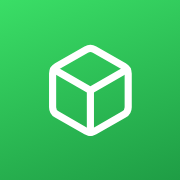
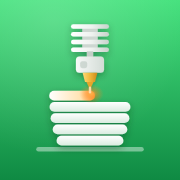
Nuevo ícono de la app: boquilla imprimiendo una pieza por capas
- icon.svg (fuente) y PNG de 180, 192 y 512 px
- Referencias con ?v=2 para que iOS y el manifiesto tomen el ícono nuevo

Claude-Session: https://claude.ai/code/session_015mxKiu8tbzypRVHgHtPzVw

diff --git a/cotizador.html b/cotizador.html
@@ -587,7 +587,7 @@
   <meta name="theme-color" content="#f2f2f7" media="(prefers-color-scheme: light)" />
   <meta name="apple-mobile-web-app-capable" content="yes" />
   <link rel="manifest" href="manifest.json" />
-  <link rel="apple-touch-icon" href="icon-180.png" />
+  <link rel="apple-touch-icon" href="icon-180.png?v=2" />
   <meta name="mobile-web-app-capable" content="yes" />
   <meta name="apple-mobile-web-app-title" content="MiniPrints" />
   <meta name="apple-mobile-web-app-status-bar-style" content="black-translucent" />

diff --git a/cotizaciones.html b/cotizaciones.html
@@ -16,7 +16,7 @@
   <meta name="theme-color" content="#f2f2f7" media="(prefers-color-scheme: light)" />
   <meta name="apple-mobile-web-app-capable" content="yes" />
   <link rel="manifest" href="manifest.json" />
-  <link rel="apple-touch-icon" href="icon-180.png" />
+  <link rel="apple-touch-icon" href="icon-180.png?v=2" />
   <meta name="mobile-web-app-capable" content="yes" />
   <meta name="apple-mobile-web-app-title" content="MiniPrints" />
   <meta name="apple-mobile-web-app-status-bar-style" content="black-translucent" />

diff --git a/dashboard.html b/dashboard.html
@@ -16,7 +16,7 @@
   <meta name="theme-color" content="#f2f2f7" media="(prefers-color-scheme: light)" />
   <meta name="apple-mobile-web-app-capable" content="yes" />
   <link rel="manifest" href="manifest.json" />
-  <link rel="apple-touch-icon" href="icon-180.png" />
+  <link rel="apple-touch-icon" href="icon-180.png?v=2" />
   <meta name="mobile-web-app-capable" content="yes" />
   <meta name="apple-mobile-web-app-title" content="MiniPrints" />
   <meta name="apple-mobile-web-app-status-bar-style" content="black-translucent" />

diff --git a/finanzas.html b/finanzas.html
@@ -15,7 +15,7 @@
   <meta name="theme-color" content="#f2f2f7" media="(prefers-color-scheme: light)" />
   <meta name="apple-mobile-web-app-capable" content="yes" />
   <link rel="manifest" href="manifest.json" />
-  <link rel="apple-touch-icon" href="icon-180.png" />
+  <link rel="apple-touch-icon" href="icon-180.png?v=2" />
   <meta name="mobile-web-app-capable" content="yes" />
   <meta name="apple-mobile-web-app-title" content="MiniPrints" />
   <meta name="apple-mobile-web-app-status-bar-style" content="black-translucent" />

diff --git a/historial-ventas.html b/historial-ventas.html
@@ -17,7 +17,7 @@
   <meta name="theme-color" content="#f2f2f7" media="(prefers-color-scheme: light)" />
   <meta name="apple-mobile-web-app-capable" content="yes" />
   <link rel="manifest" href="manifest.json" />
-  <link rel="apple-touch-icon" href="icon-180.png" />
+  <link rel="apple-touch-icon" href="icon-180.png?v=2" />
   <meta name="mobile-web-app-capable" content="yes" />
   <meta name="apple-mobile-web-app-title" content="MiniPrints" />
   <meta name="apple-mobile-web-app-status-bar-style" content="black-translucent" />

diff --git a/reset.html b/reset.html
@@ -16,7 +16,7 @@
   <meta name="theme-color" content="#f2f2f7" media="(prefers-color-scheme: light)" />
   <meta name="apple-mobile-web-app-capable" content="yes" />
   <link rel="manifest" href="manifest.json" />
-  <link rel="apple-touch-icon" href="icon-180.png" />
+  <link rel="apple-touch-icon" href="icon-180.png?v=2" />
   <meta name="mobile-web-app-capable" content="yes" />
   <meta name="apple-mobile-web-app-title" content="MiniPrints" />
   <meta name="apple-mobile-web-app-status-bar-style" content="black-translucent" />

diff --git a/stock-material.html b/stock-material.html
@@ -16,7 +16,7 @@
   <meta name="theme-color" content="#f2f2f7" media="(prefers-color-scheme: light)" />
   <meta name="apple-mobile-web-app-capable" content="yes" />
   <link rel="manifest" href="manifest.json" />
-  <link rel="apple-touch-icon" href="icon-180.png" />
+  <link rel="apple-touch-icon" href="icon-180.png?v=2" />
   <meta name="mobile-web-app-capable" content="yes" />
   <meta name="apple-mobile-web-app-title" content="MiniPrints" />
   <meta name="apple-mobile-web-app-status-bar-style" content="black-translucent" />

diff --git a/stock-piezas.html b/stock-piezas.html
@@ -17,7 +17,7 @@
   <meta name="theme-color" content="#f2f2f7" media="(prefers-color-scheme: light)" />
   <meta name="apple-mobile-web-app-capable" content="yes" />
   <link rel="manifest" href="manifest.json" />
-  <link rel="apple-touch-icon" href="icon-180.png" />
+  <link rel="apple-touch-icon" href="icon-180.png?v=2" />
   <meta name="mobile-web-app-capable" content="yes" />
   <meta name="apple-mobile-web-app-title" content="MiniPrints" />
   <meta name="apple-mobile-web-app-status-bar-style" content="black-translucent" />

diff --git a/ventas.html b/ventas.html
@@ -91,7 +91,7 @@
   <meta name="theme-color" content="#f2f2f7" media="(prefers-color-scheme: light)" />
   <meta name="apple-mobile-web-app-capable" content="yes" />
   <link rel="manifest" href="manifest.json" />
-  <link rel="apple-touch-icon" href="icon-180.png" />
+  <link rel="apple-touch-icon" href="icon-180.png?v=2" />
   <meta name="mobile-web-app-capable" content="yes" />
   <meta name="apple-mobile-web-app-title" content="MiniPrints" />
   <meta name="apple-mobile-web-app-status-bar-style" content="black-translucent" />

diff --git a/index.html b/index.html
@@ -9,7 +9,7 @@
   <script>location.replace('dashboard.html');</script>
   <style>html, body { background: #030303; }</style>
   <link rel="manifest" href="manifest.json" />
-  <link rel="apple-touch-icon" href="icon-180.png" />
+  <link rel="apple-touch-icon" href="icon-180.png?v=2" />
   <meta name="mobile-web-app-capable" content="yes" />
   <meta name="apple-mobile-web-app-title" content="MiniPrints" />
   <meta name="apple-mobile-web-app-capable" content="yes" />
